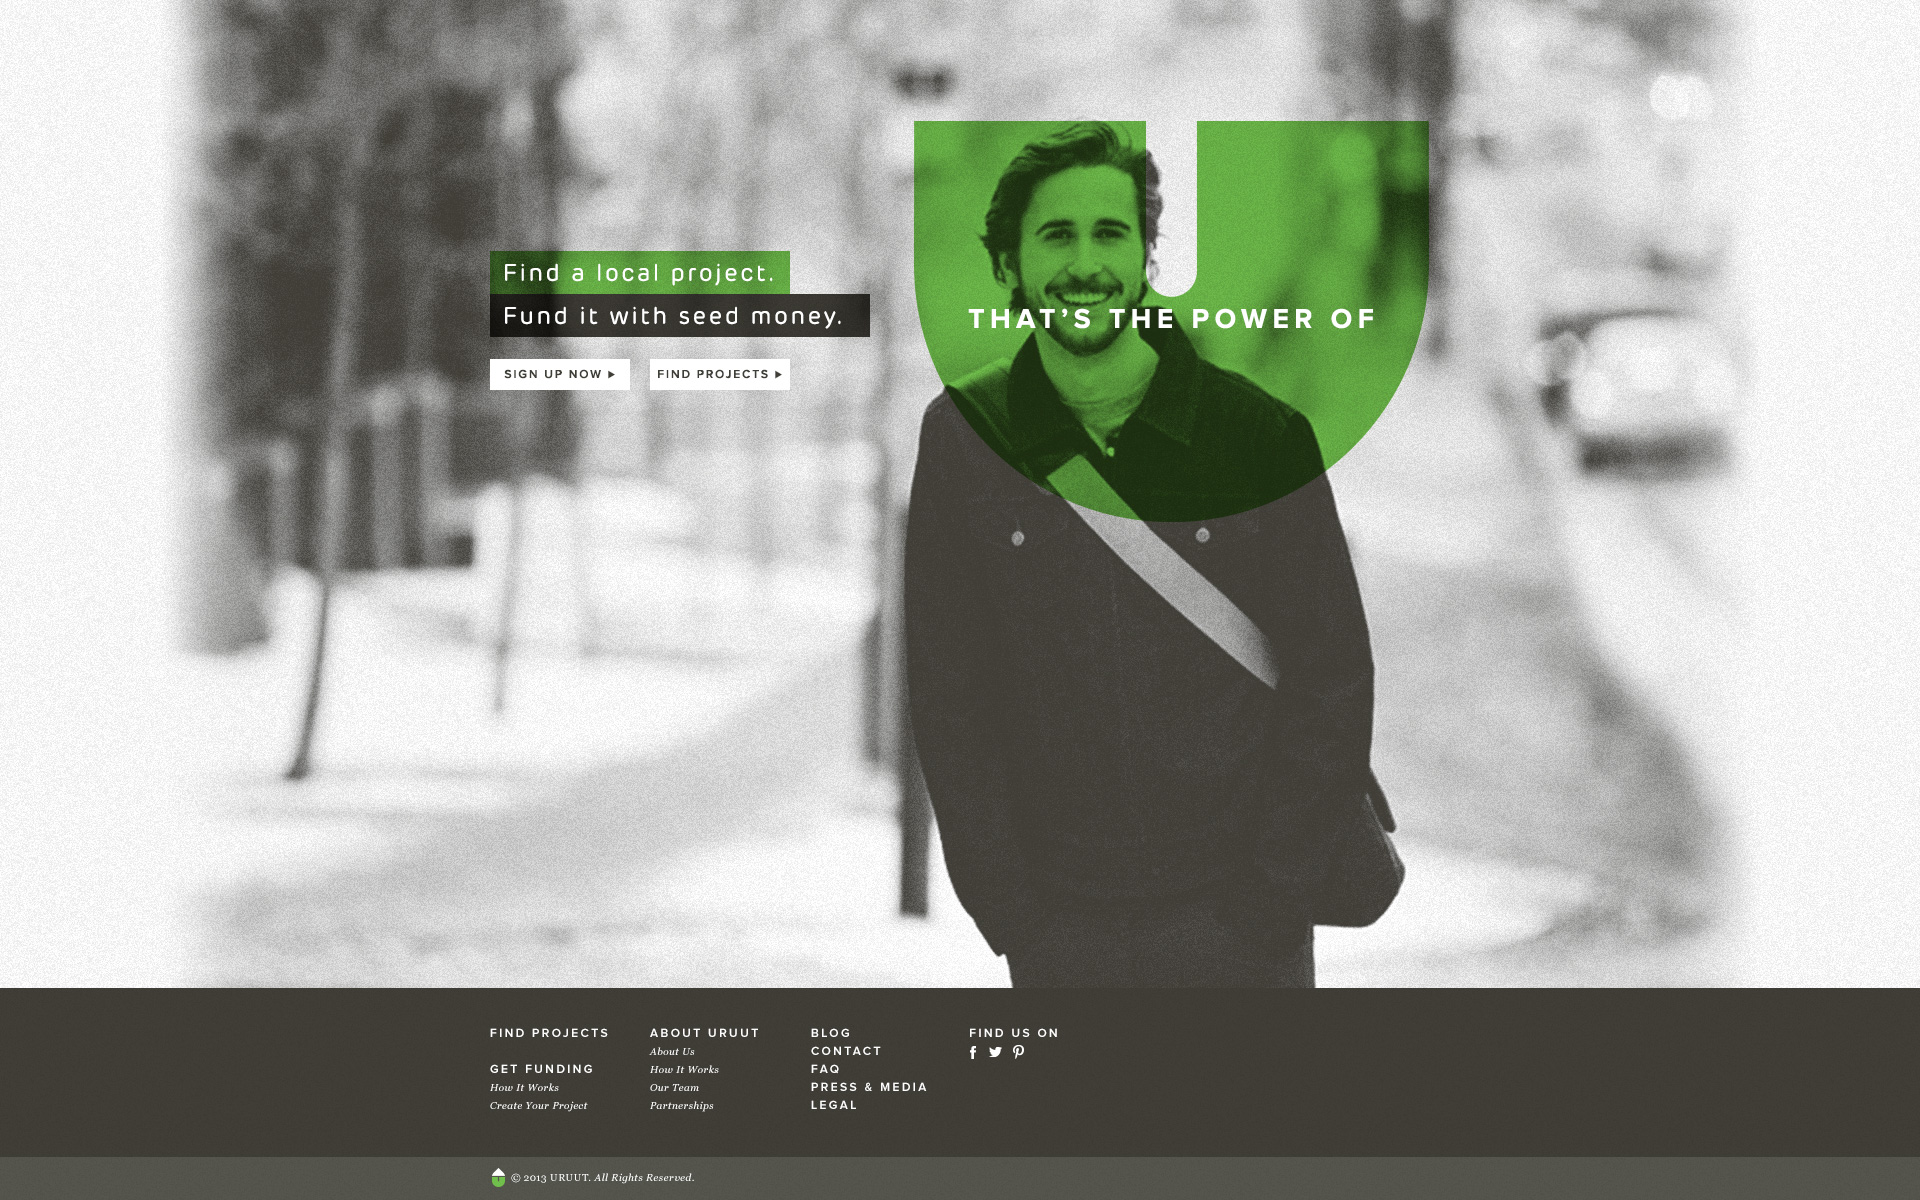
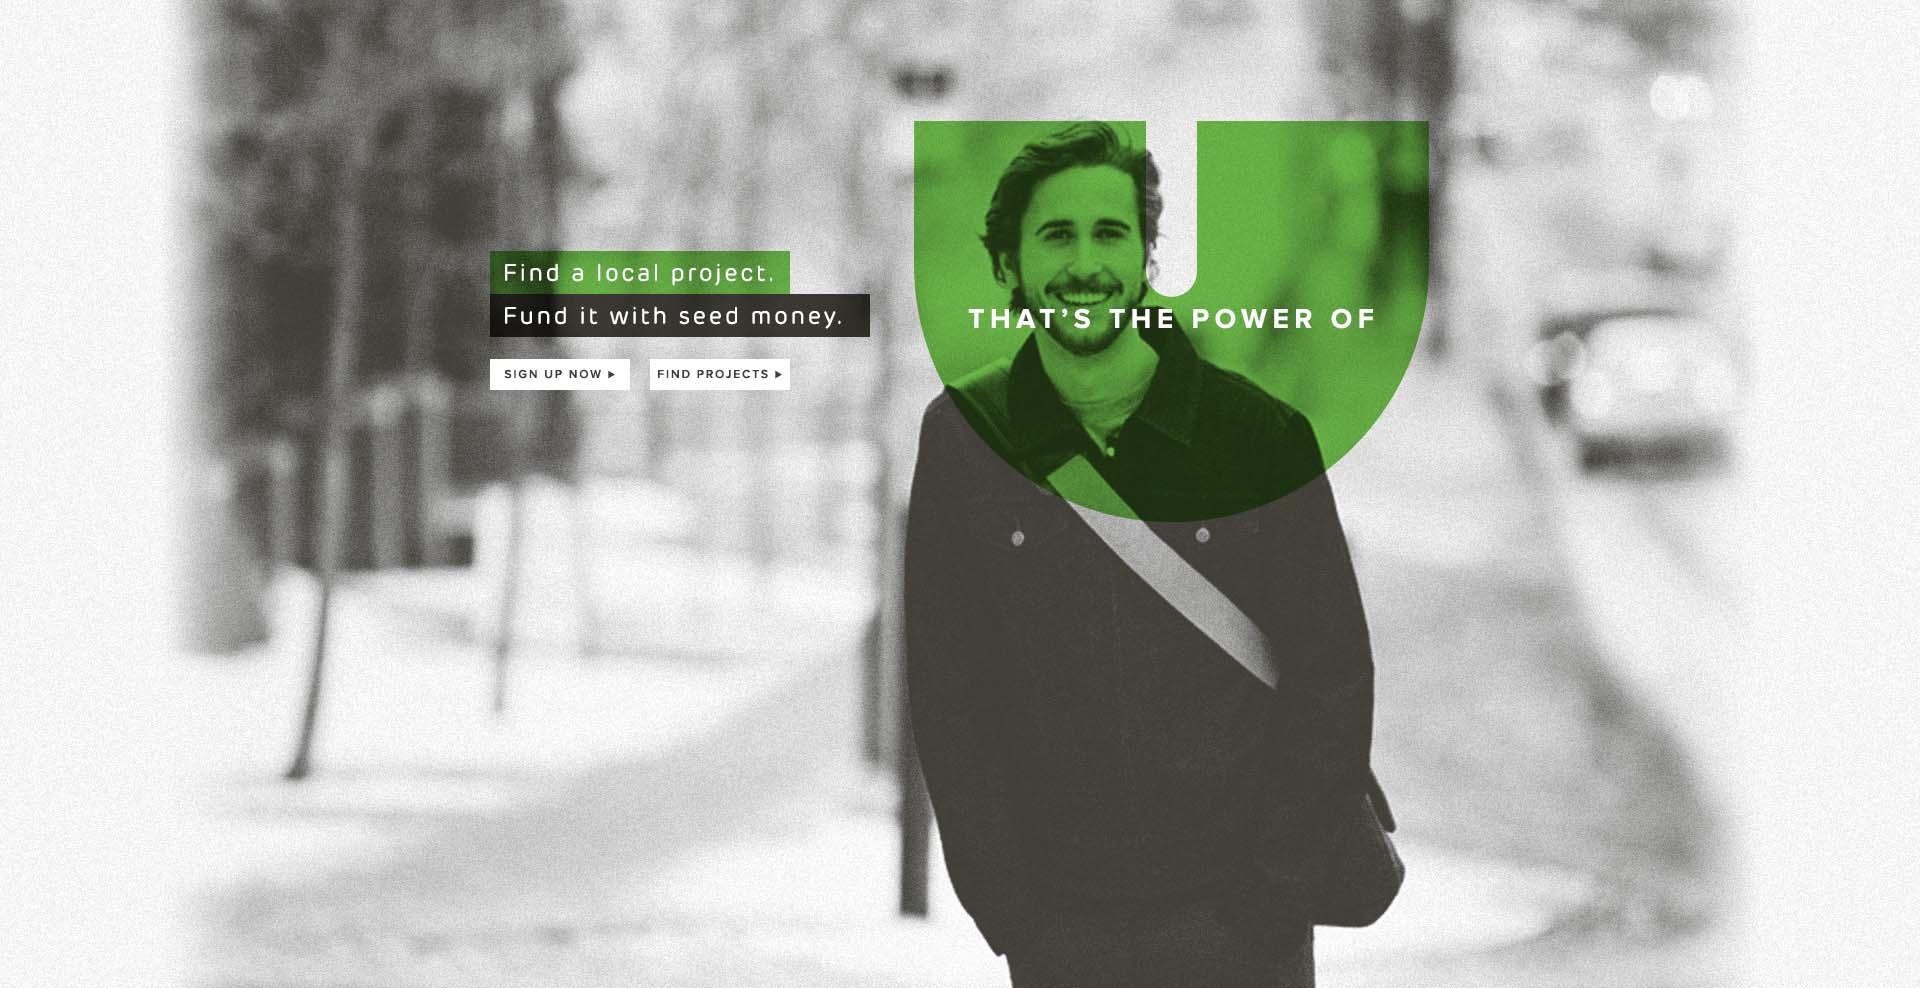
updating to nicks design

diff --git a/app/assets/stylesheets/default/pages.css.scss b/app/assets/stylesheets/default/pages.css.scss
@@ -5,7 +5,7 @@ body {
   color:#333;
   font:normal 13px/19px 'Georgia', georgia, serif;
   margin:0;
-  padding:0;}
+  padding:100px 0 0;}
 
 h1,h2,h3,h4,h5,h6 {
   color:#464646;
@@ -33,8 +33,13 @@ textarea {
   padding:5px 7px;}
 
 .pages.home {
-  background:url(image-path('bg_01.jpg')) top center no-repeat;
-  height:100%;}
+  background:url(image-path('bg_01.jpg')) no-repeat center center fixed;
+  height:100%;
+  -webkit-background-size: cover;
+  -moz-background-size: cover;
+  -o-background-size: cover;
+  background-size: cover;
+  padding:0;}
 
 .pages.home #main .container {
   height:100%;}
@@ -116,24 +121,40 @@ footer {
   padding:35px 0 40px;
 	p.span3 {
     margin-top:15px;}
-  ul.pages {
-    font:400 12px/12px arial, sans-serif;
+  ul.pages li a {
+    font:normal 12px/12px "Proxima Nova", arial, sans-serif;
+    letter-spacing:1px;
     text-transform:uppercase;}
   ul {
     float:left;
-    width:140px;
+    margin-left:0;
+    width:160px;
     li {
       color:#fff;
       font-size:11px;
+      line-height:19px;
       list-style-type:none;
       h5 {
         color:#fff;
-        font-size:12px;
-        font-weight:400;
+        font:normal 12px/19px 'Proxima Nova',arial, sans-serifi !important;
+        font-style:none;
+        letter-spacing:1px;
         margin:0;
-        text-transform:uppercase;}
+        text-transform:uppercase;
+        -webkit-font-smoothing: subpixel-antialiased;
+        a {
+          color:#fff;
+          font:normal 12px/19px 'Proxima Nova', arial, sans-serifi !important;
+          font-style:none;
+          letter-spacing:2px;
+          margin:0;
+          text-transform:uppercase;
+          -webkit-font-smoothing: subpixel-antialiased;}}
       a {
+        font:normal 10px/12px 'Georgia', georgia, serif;
         color:#fff;
+        font-style:italic;
+        -webkit-font-smoothing: subpixel-antialiased;
         &:hover {
           color:#fff;
           text-decoration:none;}}}}
@@ -232,15 +253,18 @@ div.dropdown {
   width:100%;
   li {
     border-left:1px solid #55554d;
-    font-family:'Lato', sans-serif;
+    font:normal 12px/12px 'Proxima Nova', sans-serif;
     display:inline-block;
-    line-height:60px;
+    letter-spacing:2px;
+    line-height:60px;    
     list-style-type:none;
     padding:0 32px 0 9px;
     a {
       color:#fff;
       font-size:11px;
-      text-transform:uppercase;}}}
+      text-transform:uppercase;
+      &:hover{
+        text-decoration:none;}}}}
 
 .right {
   display:block;
@@ -250,9 +274,10 @@ div.dropdown {
   width:100%;
   li {
     border-right:1px solid #242424;
-    font-family:'Lato', sans-serif;
+    font:normal 12px/12px 'Proxima Nova', sans-serif;
     display:inline-block;
     list-style-type:none;
+    -webkit-font-smoothing: subpixel-antialiased;
     img {
       margin:-6px 0 0 5px;
 			vertical-align:middle;}
@@ -262,8 +287,19 @@ div.dropdown {
       border:none;}
     a {
       color:#fff;
+      letter-spacing:2px;
       line-height:60px !important;
-      text-transform:uppercase;}}
+      text-transform:uppercase;
+      -webkit-font-smoothing: subpixel-antialiased;
+      &:hover {
+        text-decoration:none}}
+    a.sign-up-link {
+      color:#83c140;}
+    span.or {
+      color:#fff;
+      font-family:"Georgia", georgia, serif;
+      font-style:italic;
+      margin:0 5px;}}
   li.signed-in {
     border:none;}
   input[type=search]{
